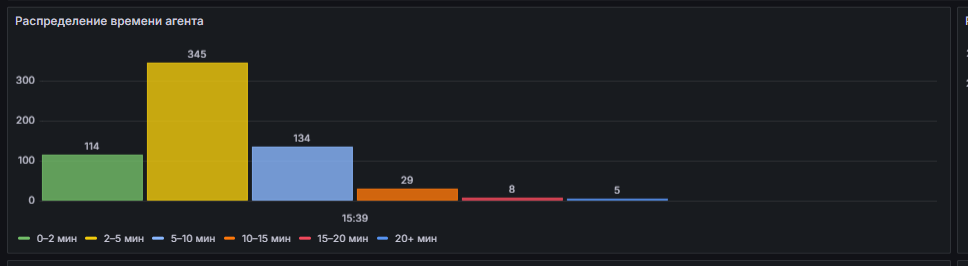
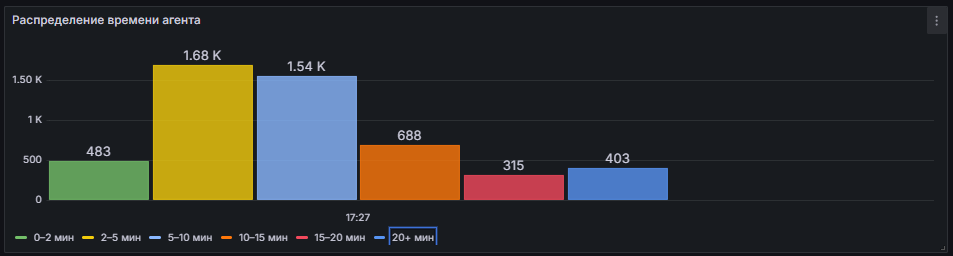
asda

diff --git a/slidev/PRESENTATION_SLIDEV.md b/slidev/PRESENTATION_SLIDEV.md
@@ -2266,7 +2266,14 @@ backgroundSize: contain
 ### Время ответа LLM
 <img src="/materials/vllm_proxy_monitoring.png" class="w-[850px] mx-auto" />
 
-> подсвечивает нагрузку на GPU сервера
+> подсвечивает нагрузку на GPU сервера - здесь перегруз виден
+
+---
+
+### Время ответа LLM
+<img src="/materials/vllm_proxy_monitoring_2.png" class="w-[850px] mx-auto" />
+
+> подсвечивает нагрузку на GPU сервера - здесь все отлично
 
 <!-- TODO новая схема работы  -->
 
